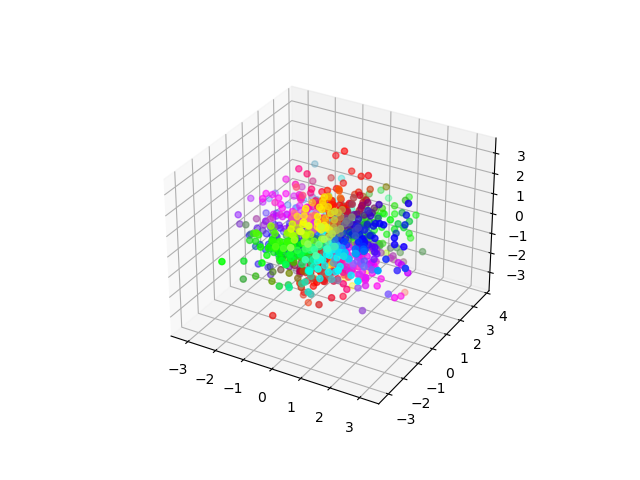
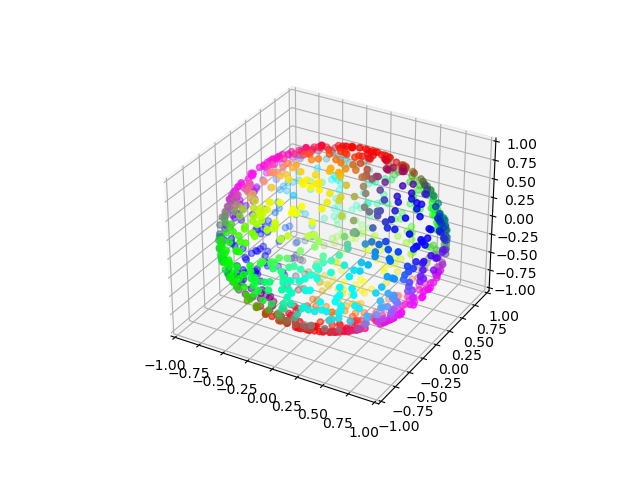
normalized points in pointcloud to be on the sphere

Changed region(s): [[0.2188, 0.1875, 0.8438, 0.9062]]

diff --git a/Example_scmap.py b/Example_scmap.py
@@ -10,13 +10,16 @@ import matplotlib.cm
 
 
 vectors = np.random.standard_normal(size=(1000,3))
+vectors /= np.sqrt((vectors**2).sum(axis=1, keepdims=True))
 coloring = scmap.Ico() 
 colors = coloring(vectors)
 
 fig = plt.figure()
 ax = fig.add_subplot(projection='3d')
 ax.scatter(vectors[:,0], vectors[:,1], vectors[:,2], color=colors)
-
+ax.set_xlim(-1, 1)
+ax.set_ylim(-1, 1)
+ax.set_zlim(-1, 1)
 
 #%%
 '''
@@ -41,6 +44,9 @@ for i in range(3):
             [-s*z_dirs[i][1], s*z_dirs[i][1]], 
             [-s*z_dirs[i][2], s*z_dirs[i][2]], 
             'k', linewidth=2)
+    ax.set_xlim(-1, 1)
+    ax.set_ylim(-1, 1)
+    ax.set_zlim(-1, 1)
     
 #%%
 '''
@@ -57,9 +63,10 @@ for i in range(3):
     ax = fig.add_subplot(1, 3, i+1, projection='3d')                      
     colors = colorings[i](vectors)
     ax.scatter(vectors[:,0], vectors[:,1], vectors[:,2], color=colors)
+    ax.set_xlim(-1, 1)
+    ax.set_ylim(-1, 1)
+    ax.set_zlim(-1, 1)
     
-
-
 #%%
 '''
 Sphere colormap shown on icosphere.
